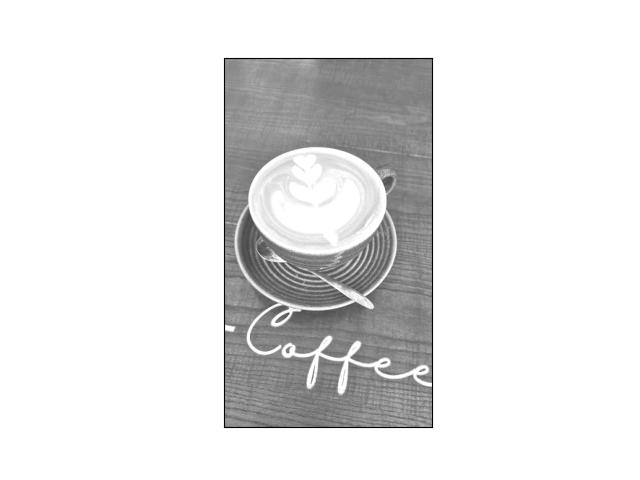
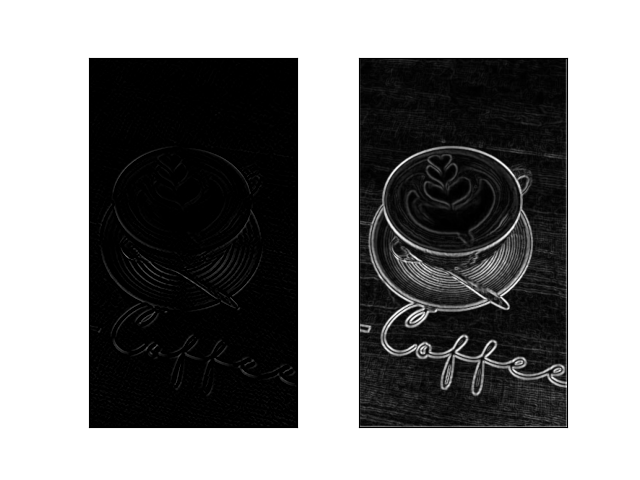
update app

diff --git a/views/Photo_app.py b/views/Photo_app.py
@@ -1,9 +1,5 @@
 import sys, os
 
-# insert at 1, 0 is the script path (or '' in REPL)
-sys.path.insert(1, '../src')
-# import Sobel
-
 from PyQt5 import QtCore, QtWidgets
 from PyQt5.QtWidgets import QDialog, QApplication, QMainWindow, QFileDialog, QLabel
 from PyQt5.QtGui import QPixmap
@@ -18,13 +14,95 @@ import matplotlib.pyplot as plt
 from matplotlib.colors import NoNorm
 from scipy import ndimage
 from PIL import Image, ImageEnhance, ImageDraw, ImageColor, ImageFilter
+import math
 
 
-def change_brightness(img, alpha, beta):
-    img_new = np.asarray(alpha * img + beta, dtype=int)  # cast pixel values to int
-    img_new[img_new > 255] = 255
-    img_new[img_new < 0] = 0
-    return img_new
+def convolute(image, kernel):
+    #lật ma trận kernel
+    r,c = kernel.shape
+    flip_kernel = np.zeros((r,c), np.float32)
+    h = 0
+    if ((r==c) and (r%2)):
+        h = int((r-1)/2)   #h=1
+        for i in range(-h, h+1):    #i -1 -> 1
+            for j in range(-h, h+1):   #j -1 -> 1
+                flip_kernel[i+h, j+h] = kernel[-i+h, -j+h]
+
+    #Thêm padding cho ảnh đầu vào
+    m, n = image.shape
+    padding_image = np.zeros((m+2*h, n+2*h), np.float32)
+    padding_image[h:-h, h:-h] = image
+
+    #Ảnh sau khi tích chập
+    convolute_image = np.zeros((m, n), np.float32)
+    for i in range(m):
+        for j in range(n):
+            convolute_image[i, j] = (flip_kernel * padding_image[i: i+r, j: j+r]).sum()
+    return convolute_image
+
+def createGaussianKernel(kernel_size,sigma):
+    h=kernel_size//2     #h = int(kernel_size/2)
+    s = 2.0 * sigma * sigma
+    # sum = 0
+    kernel=np.zeros((kernel_size,kernel_size), np.float)
+    for i in range(kernel_size):
+        for j in range(kernel_size):
+            r = np.sqrt(np.square(i-h) +np.square(j-h))
+            kernel[i,j] = (np.exp(-(r * r) / s)) / (math.pi * s)
+    kernel = kernel/kernel.sum()
+    return kernel
+
+
+def SobelFilter(image, gauss_ksize=5, dx=1, dy=1, threshold=60):
+    # GaussKernel = createGaussianKernel(gauss_ksize,1)
+    X = np.array([[1, 0, -1], [2, 0, -2], [1, 0, -1]])
+    Y = np.array([[1, 2, 1], [0, 0, 0], [-1, -2, -1]])
+
+    # kernel_x = convolute(GaussKernel,X)
+    sobel_x = convolute(image, X)
+    # kernel_y = convolute(GaussKernel,Y)
+    sobel_y = convolute(image, Y)
+
+    if dx == 1 and dy == 0:
+        return sobel_x
+    if dx == 0 and dy == 1:
+        return sobel_y
+
+    # abs_sobel_x = np.absolute(sobel_x)
+    # img_sobel_x = np.uint8(abs_sobel_x)
+    # abs_sobel_y = np.absolute(sobel_y)
+    # img_sobel_y = np.uint8(abs_sobel_y)
+
+    # sobelxy = img_sobel_x + img_sobel_y
+
+    # sobelxy = np.sqrt(np.square(sobel_x) + np.square(sobel_y))
+
+    abs_grad_x = cv2.convertScaleAbs(sobel_x)  # |src(I)∗alpha+beta|
+    abs_grad_y = cv2.convertScaleAbs(sobel_y)
+
+    # sobel_xy = cv.addWeighted(abs_grad_x, 0.5, abs_grad_y, 0.5, 0)
+    alpha = 0.5
+    beta = 0.5
+    gamma = 0
+    sobel_xy = abs_grad_x * alpha + abs_grad_y * beta + gamma
+
+    # sobel = cv.addWeighted(abs_sobel_x, 0.5, abs_sobel_y, 0.5, 0)
+    # [src1, alpha, src2, beta, gamma[, dst[, dtype]]
+    # dst = src1*alpha + src2*beta + gamma
+    # void cv::addWeighted	(	InputArray 	src1, double 	alpha, InputArray 	src2, double 	beta,double 	gamma,OutputArray 	dst,int 	dtype = -1)
+
+    # sobel = sobel_x + sobel_y
+    # sobel = image + sobel
+
+    # Loại bỏ những pixel yếu để tăng độ sắc nét của cạnh
+    # sobelxy = np.float64(sobel_xy)
+    # for i in range(sobelxy.shape[0]):
+    #     for j in range(sobelxy.shape[1]):
+    #         if sobelxy[i][j] < threshold:
+    #             sobelxy[i][j] = 0
+    #         else:
+    #             sobelxy[i][j] = 255
+    return sobel_xy
 
 
 # from giaodienmahoa import Ui_Dialog
@@ -120,7 +198,6 @@ def cacel():
     msg.setIcon(QtWidgets.QMessageBox.Warning)
     msg.exec_()
 
-
 class EditWindow(QDialog):
     def __init__(self):
         super(EditWindow, self).__init__()
@@ -182,21 +259,40 @@ class EditWindow(QDialog):
 
     def sobel(self):
         # Here we read the image and bring it as an array
-        im = Image.open(fname[0])
-        _path = path + name + ".png"
-        im.save(_path)
-        original_image = imread(_path)
+        # im = Image.open(fname[0])
+        # _path = path + name + ".png"
+        # im.save(_path)
+        # original_image = imread(_path)
 
         # Next we apply the Sobel filter in the x and y directions to then calculate the output image
-        dx, dy = ndimage.sobel(original_image, axis=0), ndimage.sobel(original_image, axis=1)
-        sobel_filtered_image = np.hypot(dx, dy)  # is equal to ( dx ^ 2 + dy ^ 2 ) ^ 0.5
-        sobel_filtered_image = sobel_filtered_image / np.max(sobel_filtered_image)  # normalization step
+        # dx, dy = ndimage.sobel(original_image, axis=0), ndimage.sobel(original_image, axis=1)
+        # sobel_filtered_image = np.hypot(dx, dy)  # is equal to ( dx ^ 2 + dy ^ 2 ) ^ 0.5
+        # sobel_filtered_image = sobel_filtered_image / np.max(sobel_filtered_image)  # normalization step
 
-        # plt.subplot(121), plt.imshow(original_image)
-        # plt.imshow
-        # plt.xticks([]), plt.yticks([])
-        # plt.subplot(122),
-        plt.imshow(sobel_filtered_image)
+        # Test bộ lọc Sobel
+        # 1:img -> img_gray
+        img_show = cv2.imread(fname[0])
+        img_show = cv2.cvtColor(img_show, cv2.COLOR_BGR2GRAY)
+
+        # 2: img_gray-> img_gauss
+        kernel_gauss = createGaussianKernel(3, 1)
+        img = convolute(img_show, kernel_gauss)
+
+        # img_gauss -> sobelx
+        SobelFilterX = SobelFilter(img, 5, 1, 0)
+        # img_gauss -> sobely
+        SobelFilterY = SobelFilter(img, 5, 0, 1)
+        # img_gauss -> sobelxy
+        SobelFilterXY = SobelFilter(img, 5, 1, 1)
+
+        # img_gauss -> sobelx use openCV
+        Sobelx = cv2.Sobel(img, cv2.CV_64F, 1, 0)
+        # img_gauss -> sobely use openCV
+        Sobely = cv2.Sobel(img, cv2.CV_64F, 0, 1)
+        # img_gauss -> sobelxy use openCV
+        Sobelxy = cv2.Sobel(img, cv2.CV_64F, 1, 1)
+
+        plt.imshow(SobelFilterXY, cmap='gray', vmin=0, vmax=255)
         plt.xticks([]), plt.yticks([])
 
         new_path = path + "/" + name + "_tmp.png"
@@ -207,12 +303,6 @@ class EditWindow(QDialog):
         # Read the image
         img = cv2.imread(fname[0], cv2.IMREAD_UNCHANGED)
         img1 = cv2.cvtColor(img, cv2.COLOR_BGR2GRAY)
-
-        # plt.figure(figsize=(10, 10))
-        # plt.subplot(121)
-        # plt.imshow(img1, cmap='gray', norm=NoNorm())
-        # plt.subplot(222)
-        # plt.hist(img1.ravel(), 256, [0, 256])
 
         k = self.exposure.value()
         # Create zeros array to store the stretched image
@@ -227,15 +317,13 @@ class EditWindow(QDialog):
                 else:
                     new_img[i, j] = v
 
-        # plt.subplot(122)
         plt.imshow(new_img, cmap='gray', norm=NoNorm())
         plt.xticks([]), plt.yticks([])
-        # plt.subplot(224)
-        # plt.hist(new_img.ravel(), 256, [0, 256])
 
         new_path = path + "/" + name + "_tmp.png"
         plt.savefig(new_path)
         self.display.setPixmap(QPixmap(new_path).scaled(1041, 721, QtCore.Qt.KeepAspectRatio))
+
 
 app = QApplication(sys.argv)
 mainwindow = MainWindow()
